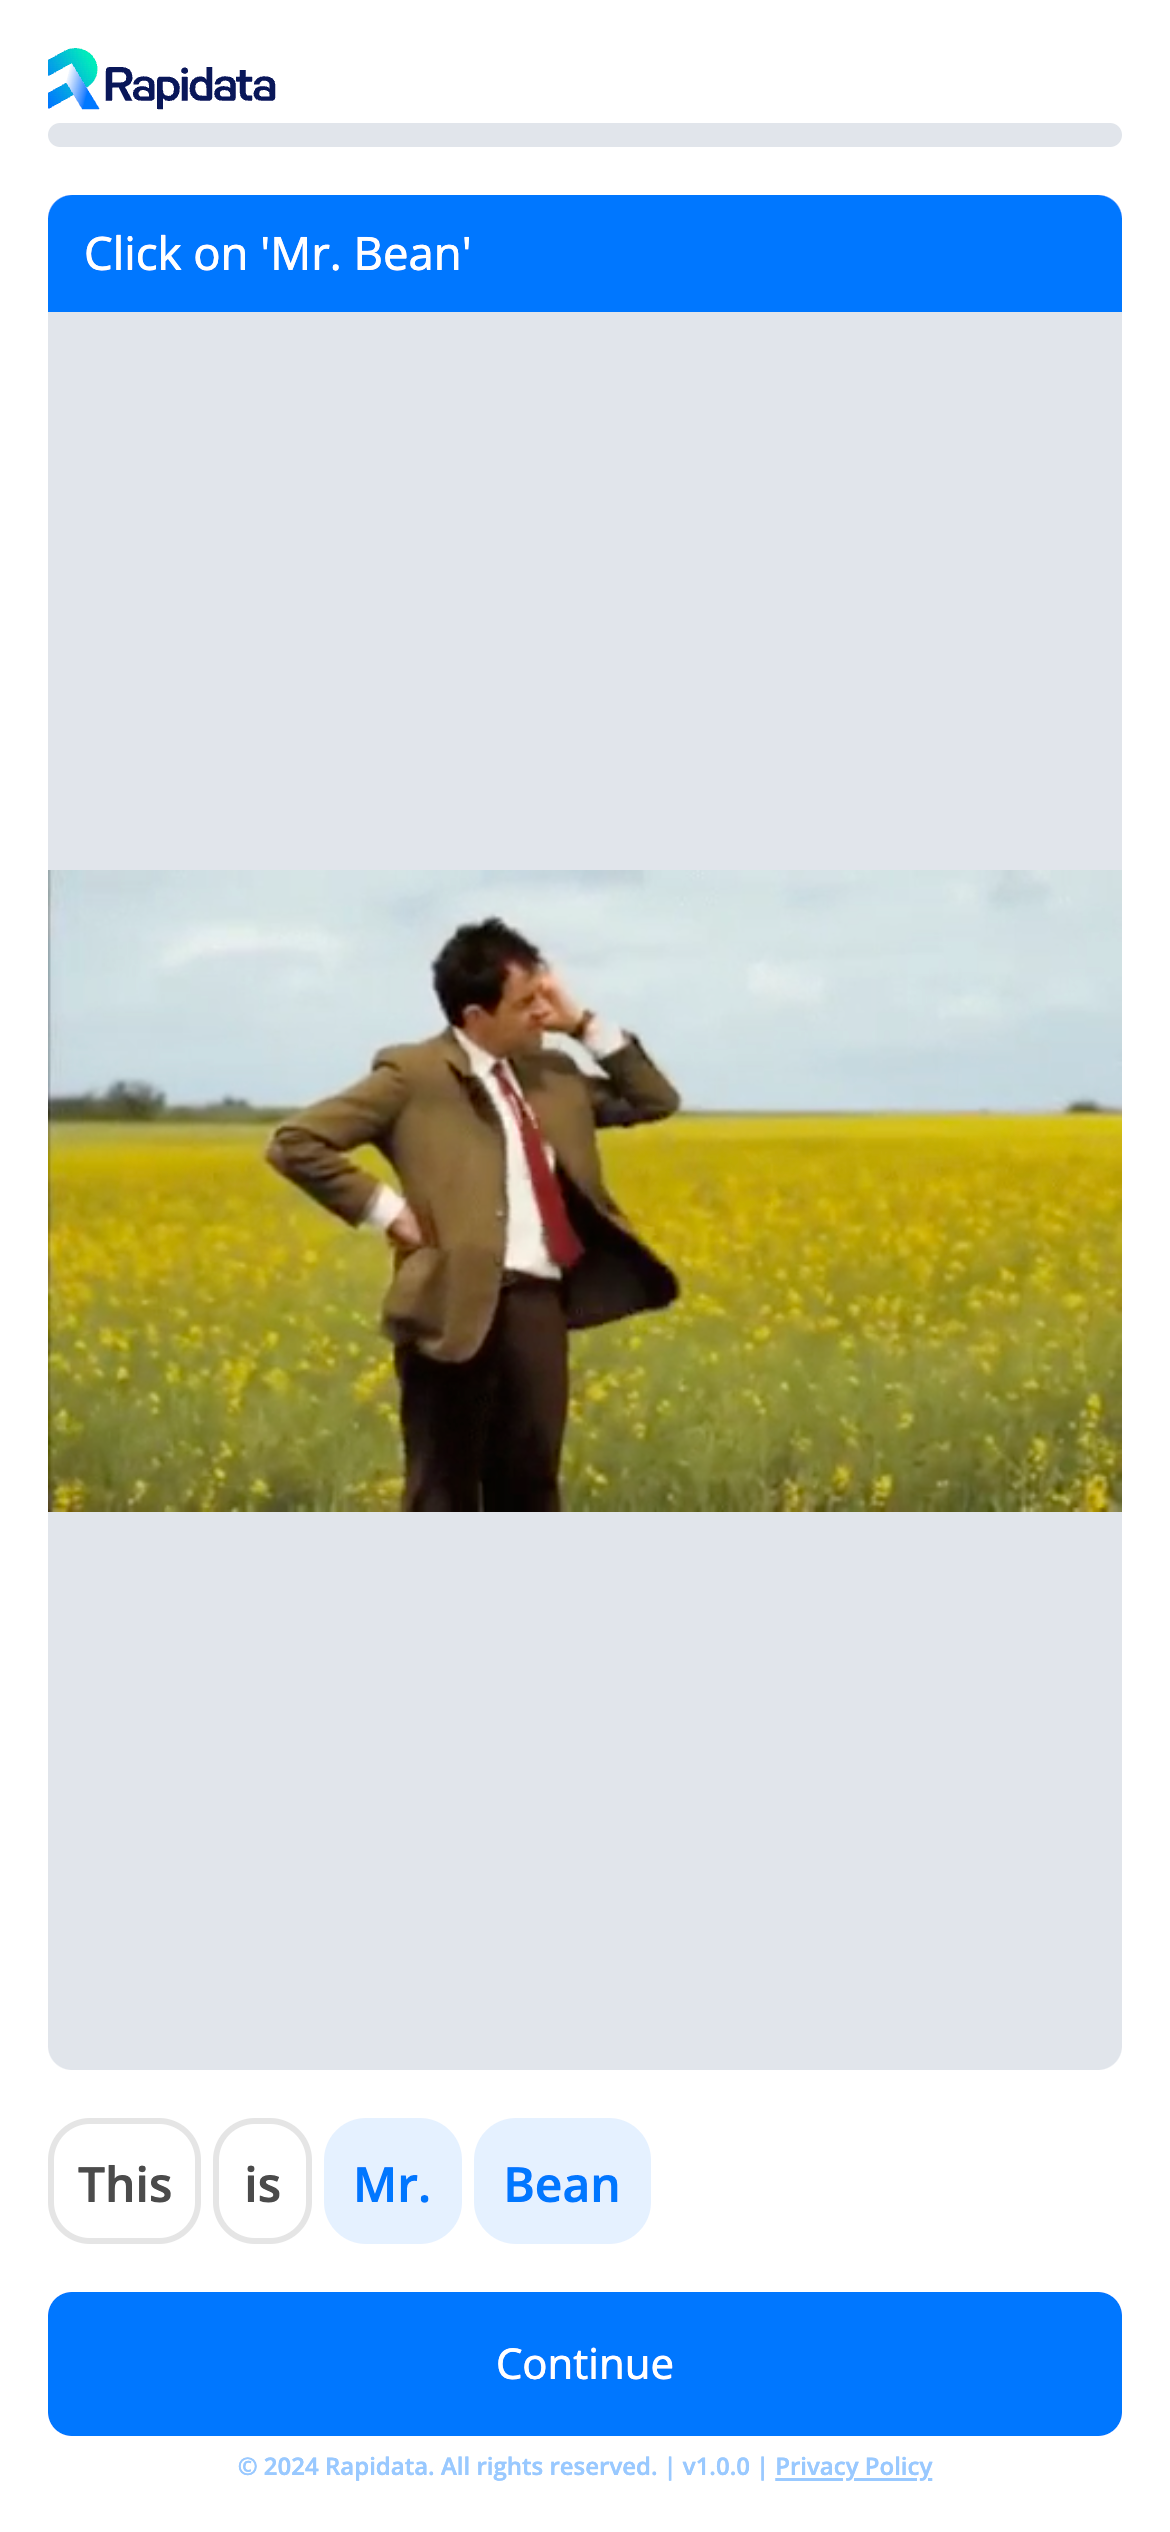
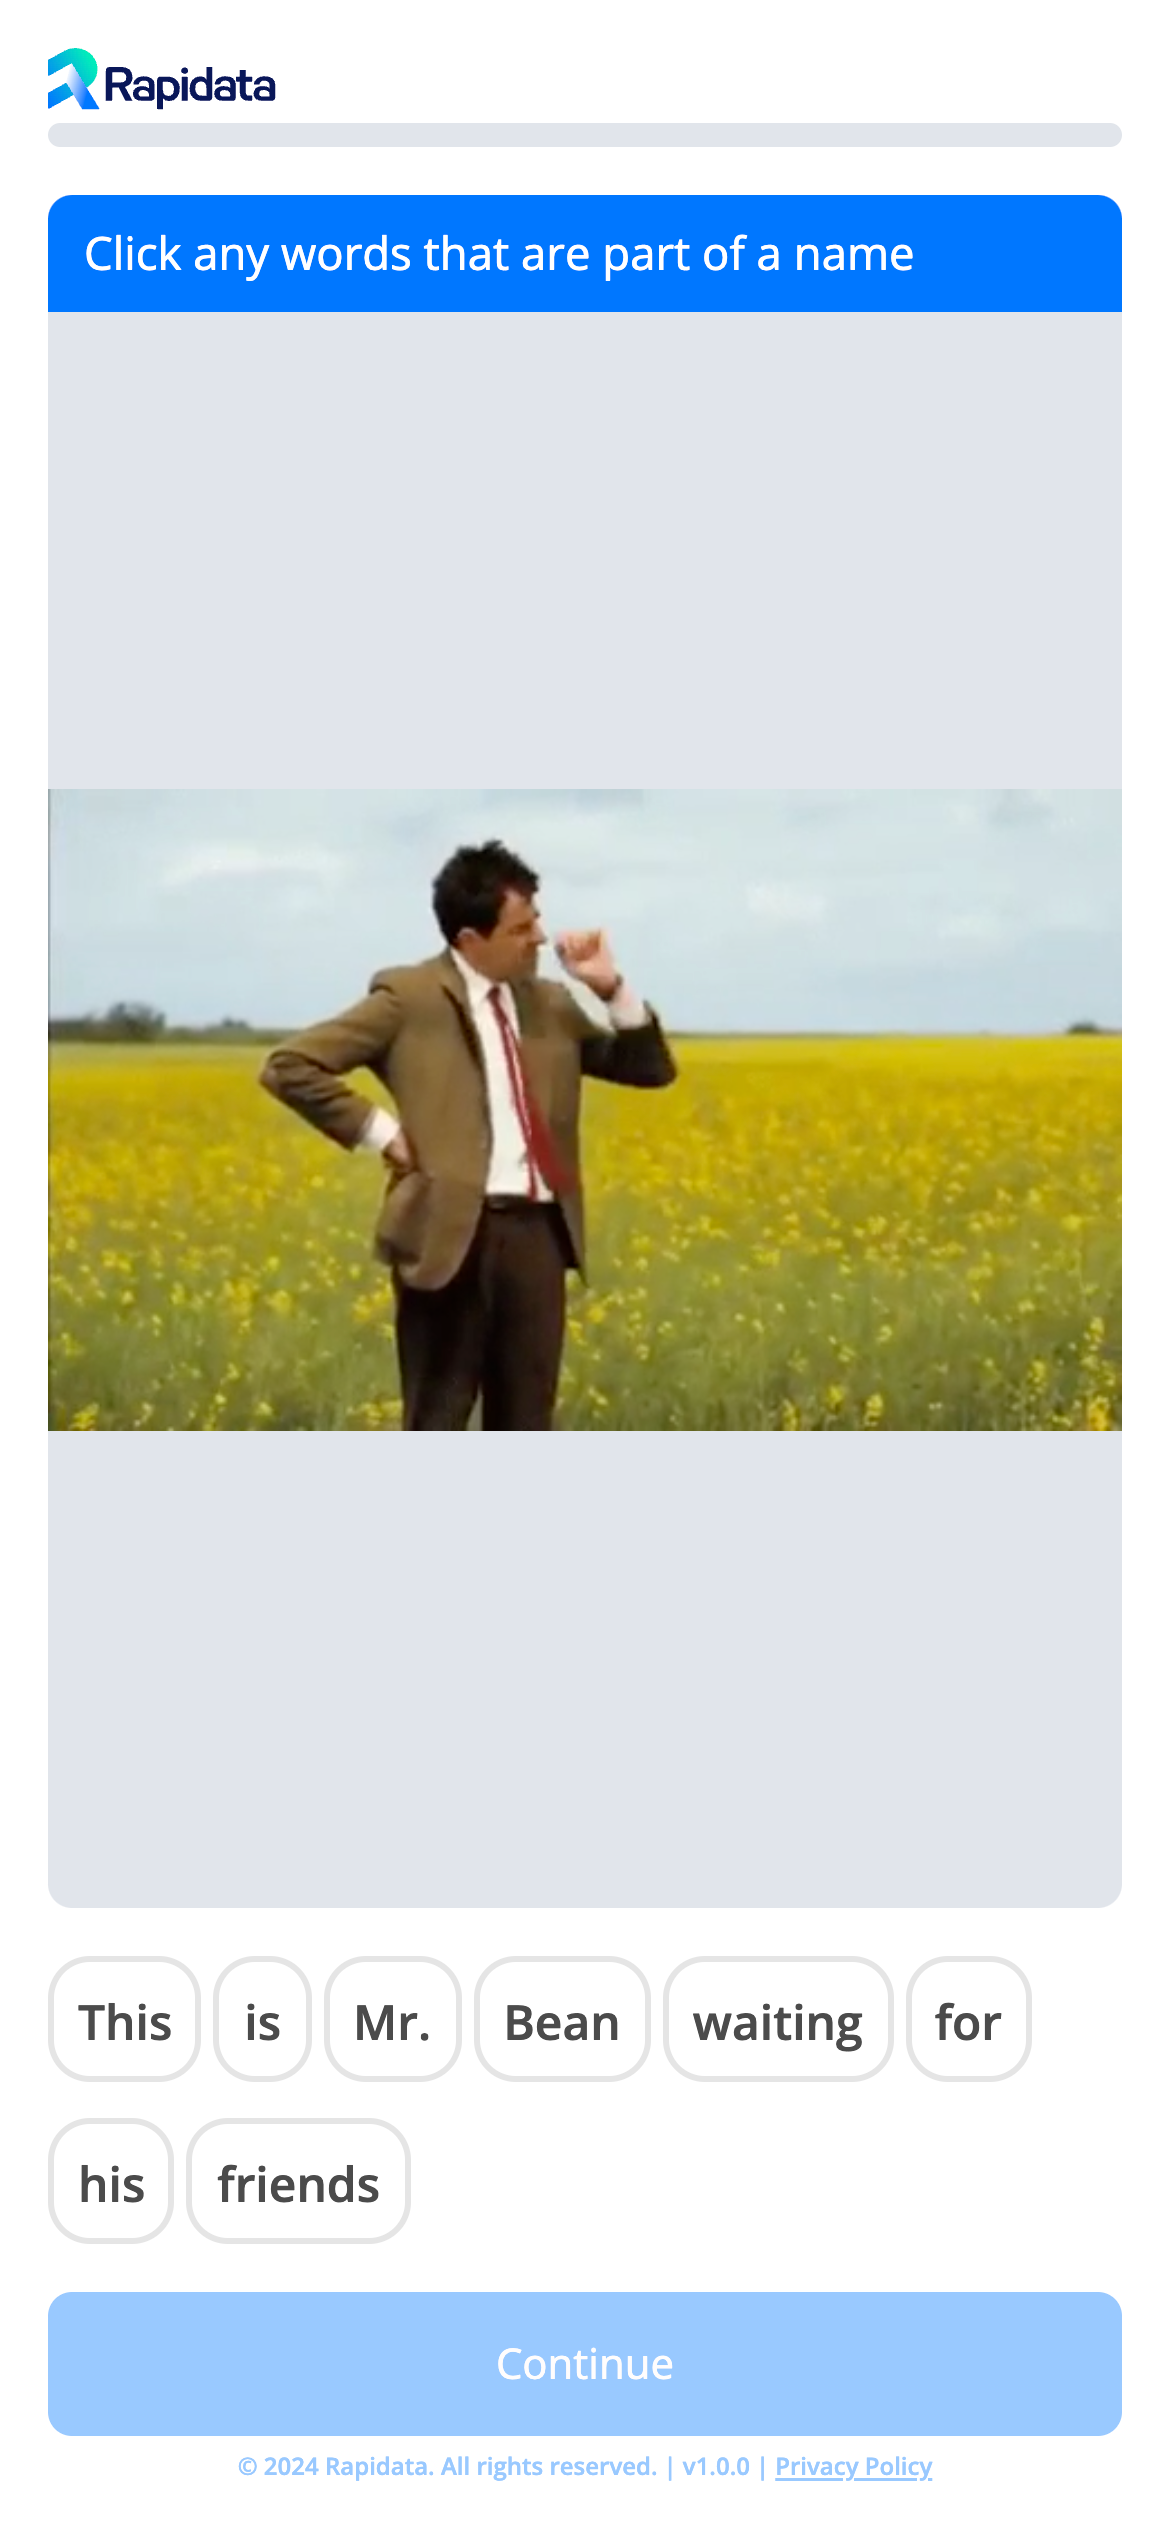
address comments

diff --git a/examples/transcription_order.py b/examples/transcription_order.py
@@ -11,8 +11,17 @@ def new_transcription_order(rapi: RapidataClient):
             name="Example Transcription Validation Set"
         ).add_transcription_rapid(
             media_path="examples/data/waiting.mp4",
-            question="Click on 'Mr. Bean'",
-            transcription=["This", "is", "Mr.", "Bean"],
+            question="Click any words that are part of a name",
+            transcription=[
+                "This",
+                "is",
+                "Mr.",
+                "Bean",
+                "waiting",
+                "for",
+                "his",
+                "friends",
+            ],
             correct_words=["Mr.", "Bean"],
         )
     ).create()

diff --git a/examples/classify_order.py b/examples/classify_order.py
@@ -13,7 +13,7 @@ def new_classify_order(rapi: RapidataClient):
         .add_classify_rapid(
             media_path="examples/data/wallaby.jpg",
             question="What kind of animal is this?",
-            categories=["Mammal", "Marsupial", "Bird", "Reptile"],
+            categories=["Fish", "Marsupial", "Bird", "Reptile"],
             truths=["Marsupial"],
             metadata=[PromptMetadata(prompt="Hint: It has a pouch")],
         )
